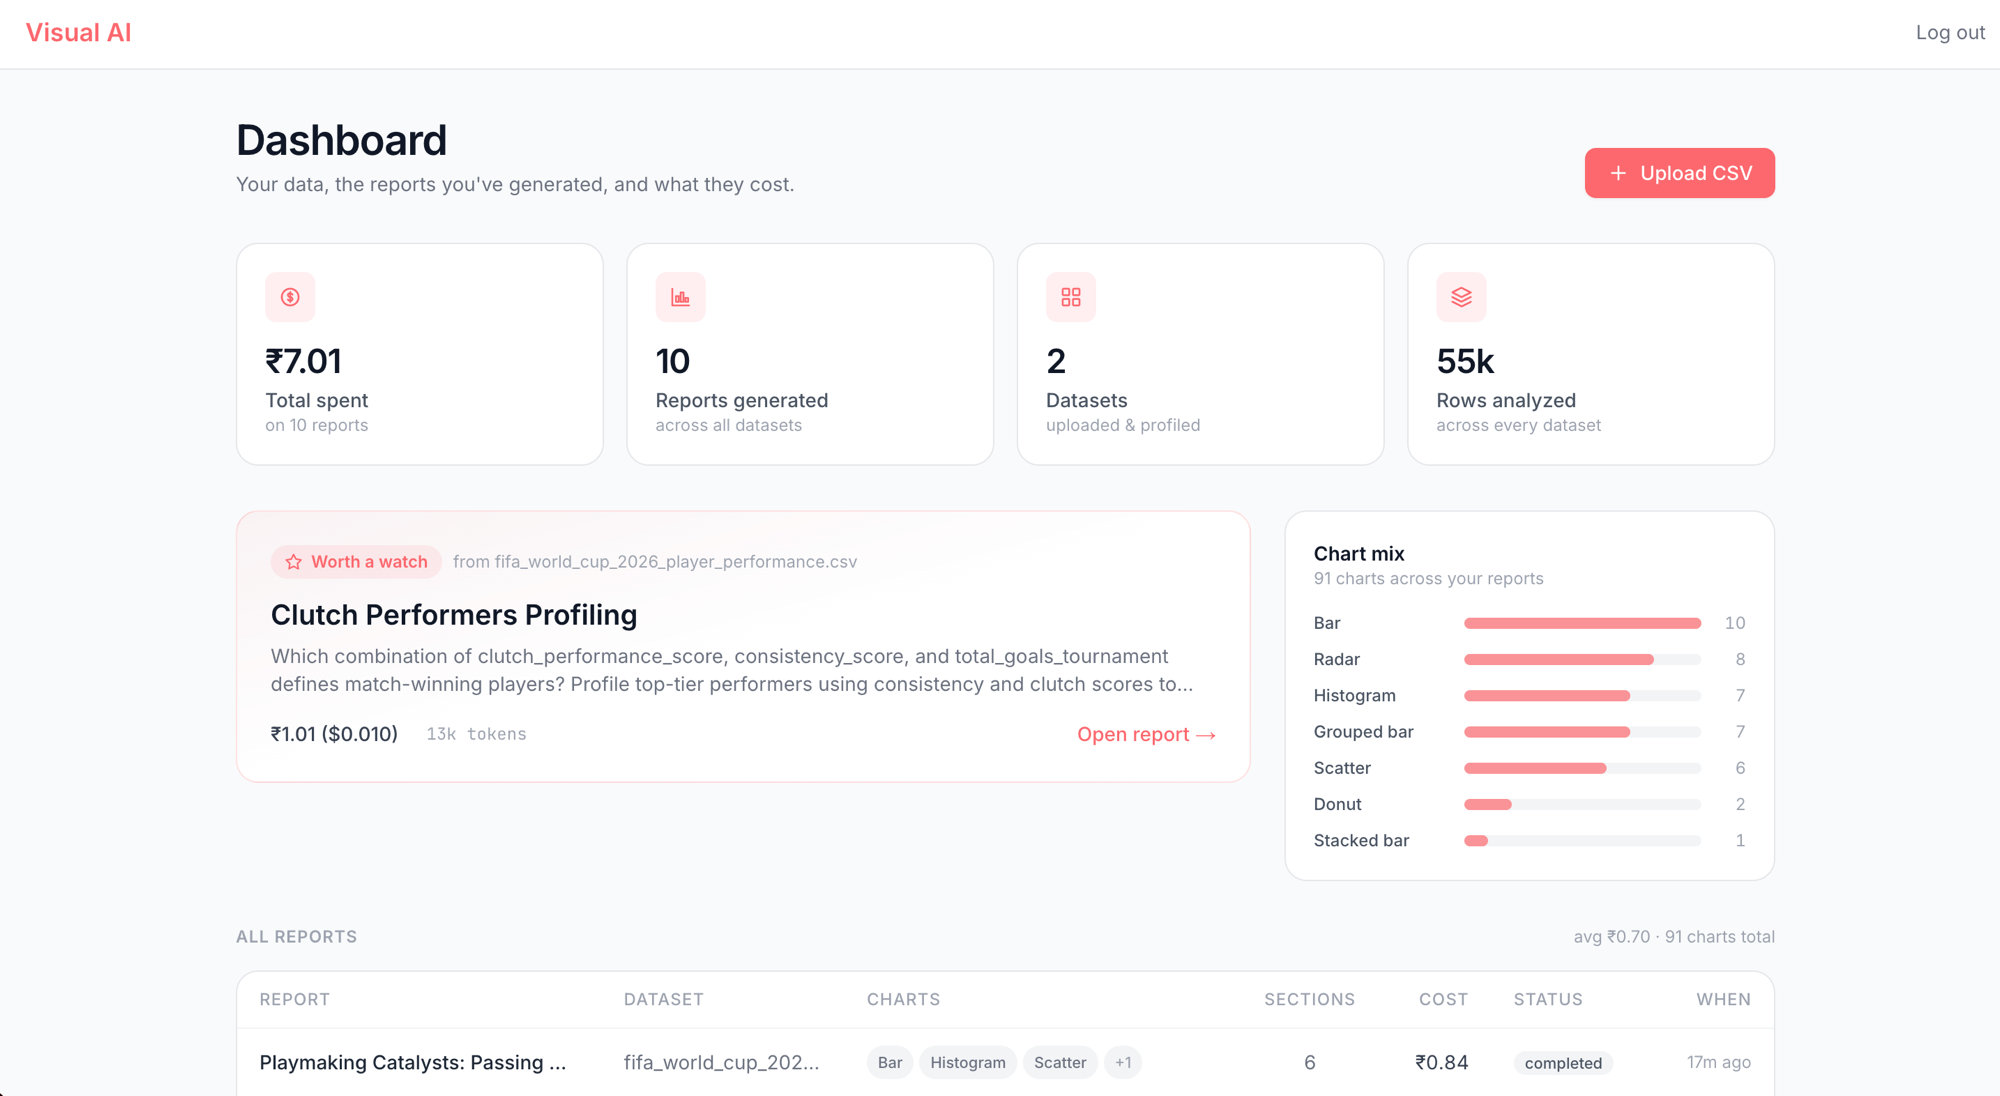
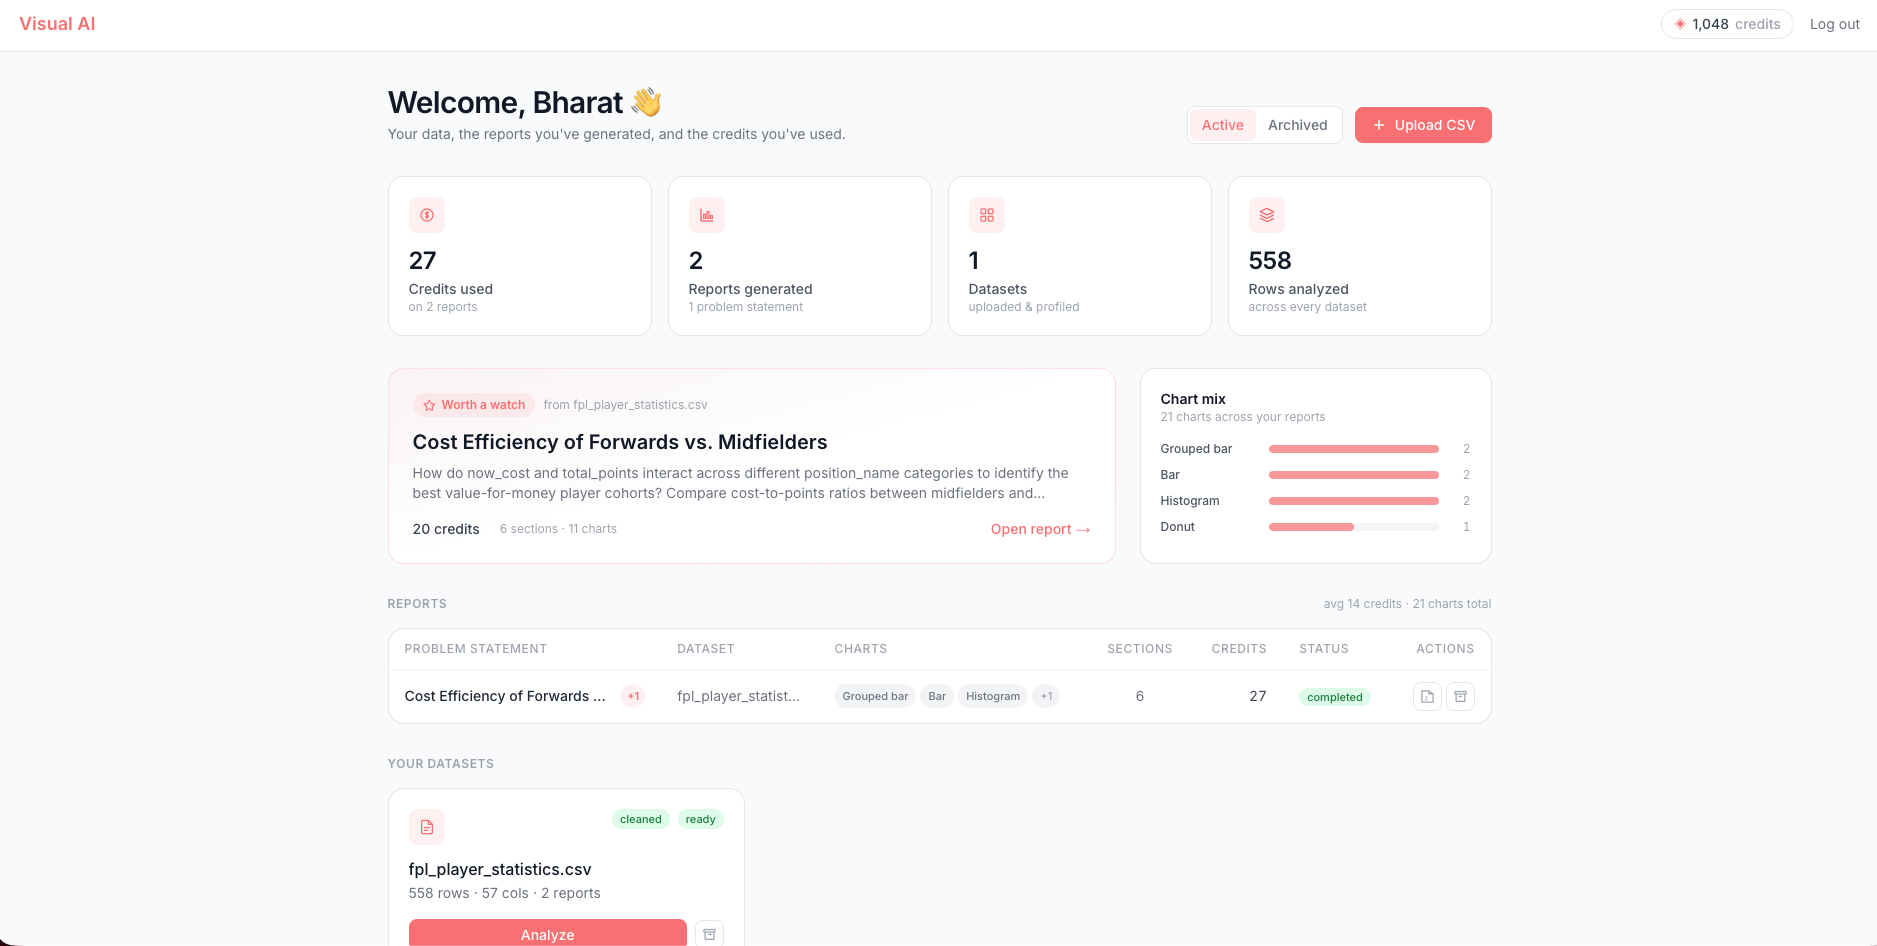
feat(landing): credit messaging, pricing section, new screenshot
- New "Credits, not subscriptions" Pricing section (#pricing, added to
  nav): free-credits, ~10/report, regenerate for 1/3, UPI/cards, and pack
  tiers shown in credits + report counts only (no currency)
- Purge currency/cost from landing copy: Hero chip "50 free credits to
  start"; DashboardShowcase reframed rupee->credits; CtaBand adds
  "50 free credits · no card required"
- Replace dashboard screenshot with the new credits dashboard (no rupee)
- Update LinkedIn link to /in/bharat-raj-verma

diff --git a/apps/web/components/landing/Pricing.tsx b/apps/web/components/landing/Pricing.tsx
@@ -1,0 +1,185 @@
+"use client";
+
+import { motion } from "framer-motion";
+import Link from "next/link";
+
+import { fadeUp, reveal, stagger } from "./motion";
+
+const POINTS = [
+  {
+    title: "Start with 50 free credits",
+    body: "Enough for about 5 full reports the moment you verify your email — no card required.",
+    icon: <GiftIcon />,
+  },
+  {
+    title: "Pay only when you generate",
+    body: "A full multi-section report costs about 10 credits. No subscription, no monthly bill — credits never expire on you mid-project.",
+    icon: <BoltIcon />,
+  },
+  {
+    title: "Regenerate for a fraction",
+    body: "Iterating on the same question costs one-third of the original — refine your analysis without paying full price again.",
+    icon: <RefreshIcon />,
+  },
+  {
+    title: "UPI, cards & netbanking",
+    body: "Top up in seconds through secure checkout. Bigger credit packs come with bigger bonus credits.",
+    icon: <CoinIcon />,
+  },
+];
+
+// Marketing view of the packs — CREDITS and report counts only, never currency.
+const PACKS = [
+  { name: "Starter", credits: 100, reports: 10, badge: null },
+  { name: "Analyst", credits: 350, reports: 35, badge: "Most popular" },
+  { name: "Pro", credits: 900, reports: 90, badge: "Best value" },
+  { name: "Studio", credits: 2600, reports: 260, badge: null },
+];
+
+export default function Pricing() {
+  return (
+    <section id="pricing" className="relative overflow-hidden py-24 sm:py-32">
+      <div className="mx-auto max-w-6xl px-5 sm:px-8">
+        <motion.div {...reveal} variants={stagger} className="max-w-2xl">
+          <motion.p
+            variants={fadeUp}
+            className="mb-3 font-mono text-xs uppercase tracking-[0.25em] text-primary"
+          >
+            simple, pay as you go
+          </motion.p>
+          <motion.h2
+            variants={fadeUp}
+            className="font-display text-3xl font-semibold tracking-tight text-ink sm:text-4xl"
+          >
+            Credits, not subscriptions
+          </motion.h2>
+          <motion.p variants={fadeUp} className="mt-4 text-lg text-gray-500">
+            You only pay when you generate a report. Buy a pack of credits once,
+            spend them whenever you need answers.
+          </motion.p>
+        </motion.div>
+
+        {/* Points */}
+        <motion.div
+          {...reveal}
+          variants={stagger}
+          className="mt-12 grid gap-6 sm:grid-cols-2"
+        >
+          {POINTS.map((p) => (
+            <motion.div
+              key={p.title}
+              variants={fadeUp}
+              className="flex gap-4 rounded-2xl border border-gray-200 bg-white p-5"
+            >
+              <span className="flex h-10 w-10 shrink-0 items-center justify-center rounded-xl bg-primary/10 text-primary">
+                {p.icon}
+              </span>
+              <div>
+                <h3 className="font-display text-base font-semibold text-ink">
+                  {p.title}
+                </h3>
+                <p className="mt-1 text-sm leading-relaxed text-gray-500">
+                  {p.body}
+                </p>
+              </div>
+            </motion.div>
+          ))}
+        </motion.div>
+
+        {/* Packs — credits only */}
+        <motion.div
+          {...reveal}
+          variants={stagger}
+          className="mt-8 grid grid-cols-2 gap-4 lg:grid-cols-4"
+        >
+          {PACKS.map((pack) => {
+            const featured = pack.badge === "Best value";
+            return (
+              <motion.div
+                key={pack.name}
+                variants={fadeUp}
+                className={`relative rounded-2xl border p-5 text-center ${
+                  featured
+                    ? "border-primary/60 bg-primary/[0.03] ring-1 ring-primary/20"
+                    : "border-gray-200 bg-white"
+                }`}
+              >
+                {pack.badge && (
+                  <span className="absolute -top-2.5 left-1/2 -translate-x-1/2 whitespace-nowrap rounded-full bg-primary px-2.5 py-0.5 text-[11px] font-semibold text-white">
+                    {pack.badge}
+                  </span>
+                )}
+                <p className="text-sm font-semibold text-gray-900">
+                  {pack.name}
+                </p>
+                <p className="mt-2 text-3xl font-bold tracking-tight text-gray-900">
+                  {pack.credits.toLocaleString()}
+                </p>
+                <p className="text-xs text-gray-400">credits</p>
+                <p className="mt-2 text-xs font-medium text-primary">
+                  ~{pack.reports} reports
+                </p>
+              </motion.div>
+            );
+          })}
+        </motion.div>
+
+        <motion.div {...reveal} variants={fadeUp} className="mt-10 text-center">
+          <Link
+            href="/auth/register"
+            className="inline-flex items-center gap-2 rounded-xl bg-primary px-6 py-3.5 text-sm font-semibold text-white shadow-lg shadow-primary/25 transition-transform hover:-translate-y-0.5"
+          >
+            Start with 50 free credits
+            <span>→</span>
+          </Link>
+          <p className="mt-3 text-xs text-gray-400">
+            No subscription · no card to start · pay only for what you generate
+          </p>
+        </motion.div>
+      </div>
+    </section>
+  );
+}
+
+const iconProps = {
+  width: 18,
+  height: 18,
+  viewBox: "0 0 24 24",
+  fill: "none",
+  stroke: "currentColor",
+  strokeWidth: 2,
+  strokeLinecap: "round" as const,
+  strokeLinejoin: "round" as const,
+};
+function GiftIcon() {
+  return (
+    <svg {...iconProps}>
+      <rect x="3" y="8" width="18" height="4" rx="1" />
+      <path d="M12 8v13M5 12v7a2 2 0 0 0 2 2h10a2 2 0 0 0 2-2v-7" />
+      <path d="M12 8S10 3 7.5 3 5 6 5 6s2 2 4 2M12 8s2-5 4.5-5S19 6 19 6s-2 2-4 2" />
+    </svg>
+  );
+}
+function BoltIcon() {
+  return (
+    <svg {...iconProps}>
+      <path d="M13 2 3 14h7l-1 8 10-12h-7l1-8z" />
+    </svg>
+  );
+}
+function RefreshIcon() {
+  return (
+    <svg {...iconProps}>
+      <path d="M23 4v6h-6M1 20v-6h6" />
+      <path d="M3.51 9a9 9 0 0 1 14.85-3.36L23 10M1 14l4.64 4.36A9 9 0 0 0 20.49 15" />
+    </svg>
+  );
+}
+function CoinIcon() {
+  return (
+    <svg {...iconProps}>
+      <circle cx="12" cy="12" r="9" />
+      <path d="M14.5 9.5A2.5 2.5 0 0 0 12 8c-1.5 0-2.5.8-2.5 2s1 1.6 2.5 2 2.5.9 2.5 2-1 2-2.5 2a2.5 2.5 0 0 1-2.5-1.5M12 6.5v11" />
+    </svg>
+  );
+}

diff --git a/apps/web/components/landing/DashboardShowcase.tsx b/apps/web/components/landing/DashboardShowcase.tsx
@@ -6,8 +6,8 @@ import { fadeUp, reveal, stagger } from "./motion";
 
 const HIGHLIGHTS = [
   {
-    title: "Every rupee, visible",
-    body: "Total spend and per-report cost, tracked to the token. Reports run for fractions of a cent.",
+    title: "Every credit, visible",
+    body: "See the credits behind every report at a glance. A full multi-section report is about 10 credits.",
     icon: <CoinIcon />,
   },
   {
@@ -37,11 +37,11 @@ export default function DashboardShowcase() {
             variants={fadeUp}
             className="font-display text-3xl font-semibold tracking-tight text-ink sm:text-4xl"
           >
-            Every report, every rupee — one dashboard
+            Every report, every credit — one dashboard
           </motion.h2>
           <motion.p variants={fadeUp} className="mt-4 text-lg text-gray-500">
-            Datasets, generated reports, spend, and the charts you use most —
-            all in a single, calm view.
+            Datasets, generated reports, credits used, and the charts you use
+            most — all in a single, calm view.
           </motion.p>
         </motion.div>
 
@@ -62,7 +62,7 @@ export default function DashboardShowcase() {
           {/* eslint-disable-next-line @next/next/no-img-element */}
           <img
             src="/dashboard.png"
-            alt="The Visual AI dashboard: spend, reports, datasets and chart mix"
+            alt="The Visual AI dashboard: credits used, reports, datasets and chart mix"
             className="w-full"
             loading="lazy"
           />

diff --git a/apps/web/app/page.tsx b/apps/web/app/page.tsx
@@ -6,6 +6,7 @@ import HowItWorks from "@/components/landing/HowItWorks";
 import LandingFooter from "@/components/landing/LandingFooter";
 import LandingNav from "@/components/landing/LandingNav";
 import LandingShell from "@/components/landing/LandingShell";
+import Pricing from "@/components/landing/Pricing";
 import ProblemStatement from "@/components/landing/ProblemStatement";
 import Showcase from "@/components/landing/Showcase";
 import Thesis from "@/components/landing/Thesis";
@@ -23,6 +24,7 @@ export default function Home() {
           <ProblemStatement />
           <DashboardShowcase />
           <ChartTypes />
+          <Pricing />
           <CtaBand />
         </main>
         <LandingFooter />

diff --git a/apps/web/components/landing/Hero.tsx b/apps/web/components/landing/Hero.tsx
@@ -94,7 +94,7 @@ export default function Hero() {
             {[
               { icon: <FileIcon />, label: "PDF & ZIP export" },
               { icon: <SparkIcon />, label: "Interactive charts" },
-              { icon: <CoinIcon />, label: "~$0.006 / report" },
+              { icon: <CoinIcon />, label: "50 free credits to start" },
             ].map((chip) => (
               <span
                 key={chip.label}

diff --git a/apps/web/components/landing/CtaBand.tsx b/apps/web/components/landing/CtaBand.tsx
@@ -47,6 +47,13 @@ export default function CtaBand() {
             Log in
           </Link>
         </motion.div>
+        <motion.p
+          variants={fadeUp}
+          className="relative mt-5 text-sm text-white/75"
+        >
+          50 free credits on signup · no card required · pay with credits only
+          when you generate
+        </motion.p>
       </motion.div>
     </section>
   );

diff --git a/apps/web/components/landing/LandingFooter.tsx b/apps/web/components/landing/LandingFooter.tsx
@@ -98,7 +98,7 @@ export default function LandingFooter() {
               </svg>
             </a>
             <a
-              href="https://www.linkedin.com/in/bharatraj1508"
+              href="https://www.linkedin.com/in/bharat-raj-verma/"
               target="_blank"
               rel="noopener noreferrer"
               aria-label="LinkedIn"

diff --git a/apps/web/components/landing/LandingNav.tsx b/apps/web/components/landing/LandingNav.tsx
@@ -11,6 +11,7 @@ const LINKS = [
   { label: "Problem statements", href: "#problem-statement" },
   { label: "Dashboard", href: "#dashboard" },
   { label: "Charts", href: "#charts" },
+  { label: "Pricing", href: "#pricing" },
 ];
 
 export default function LandingNav() {
